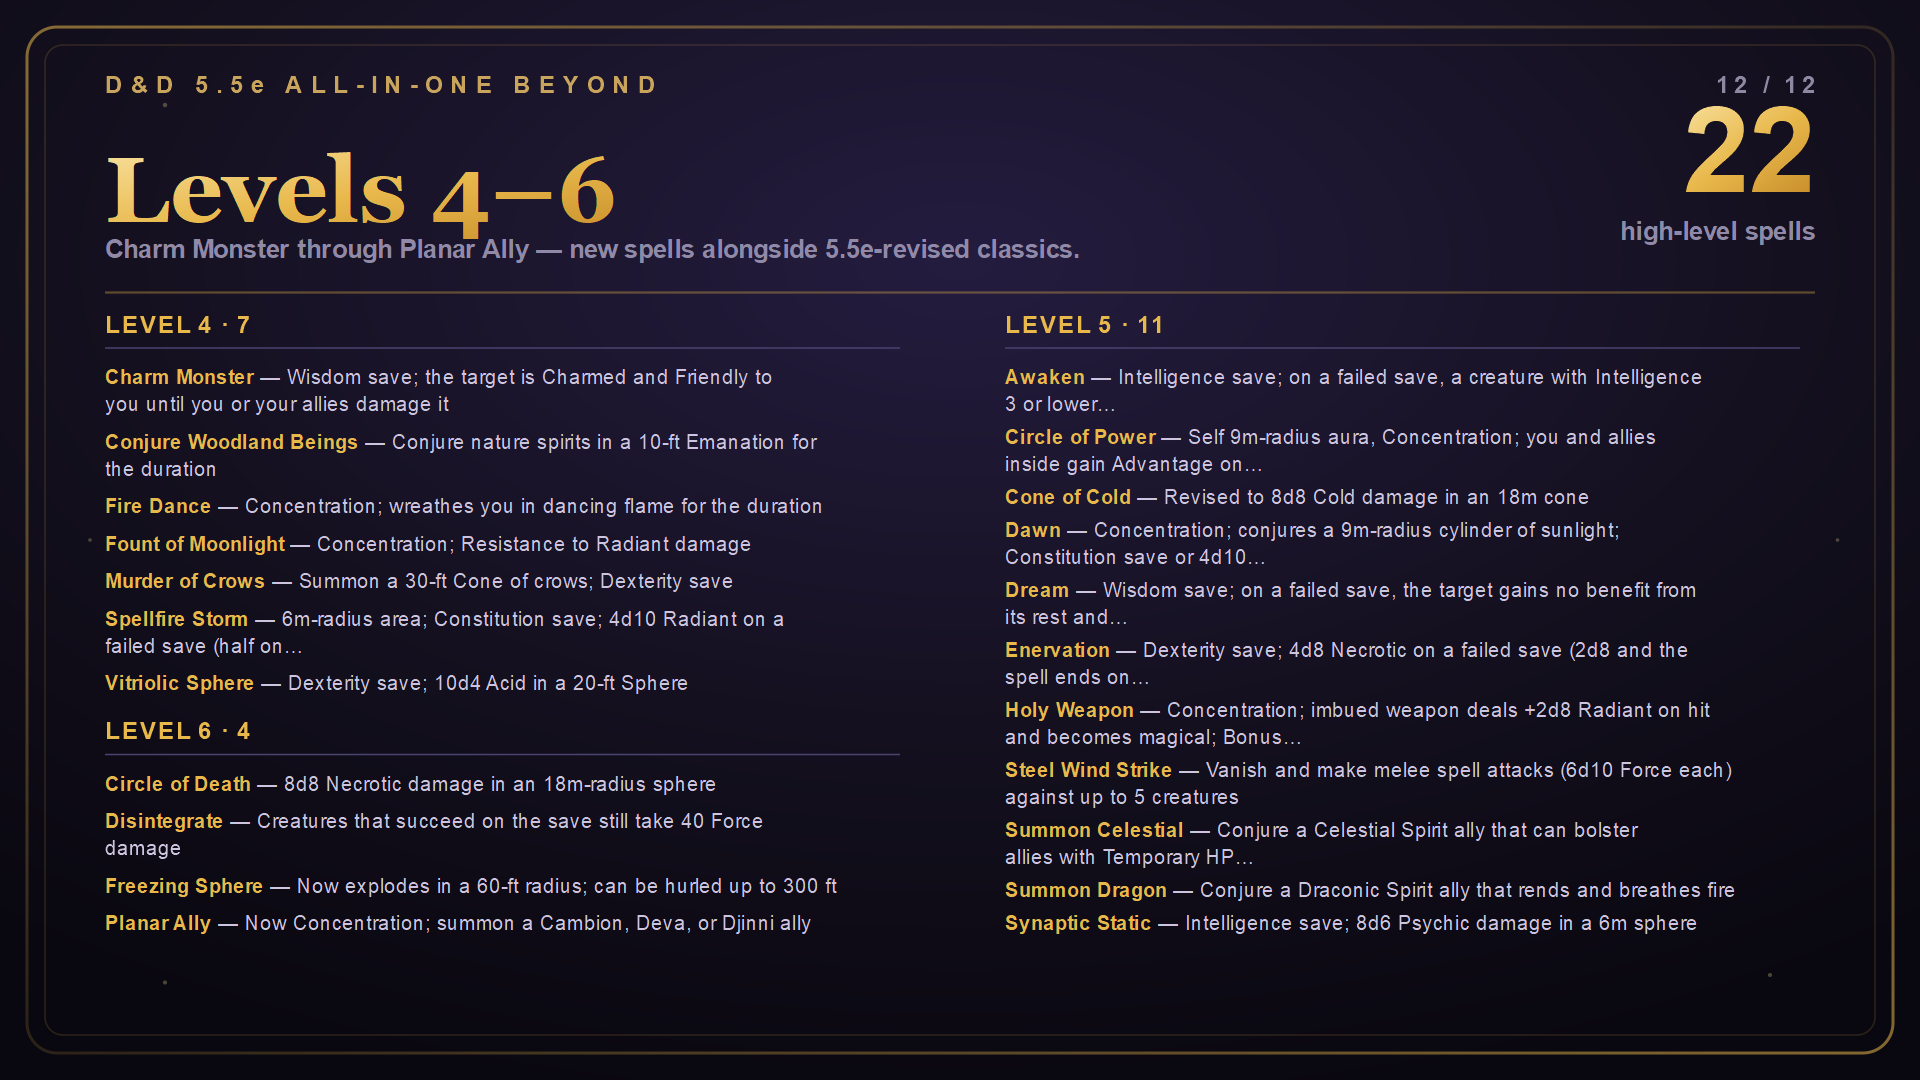
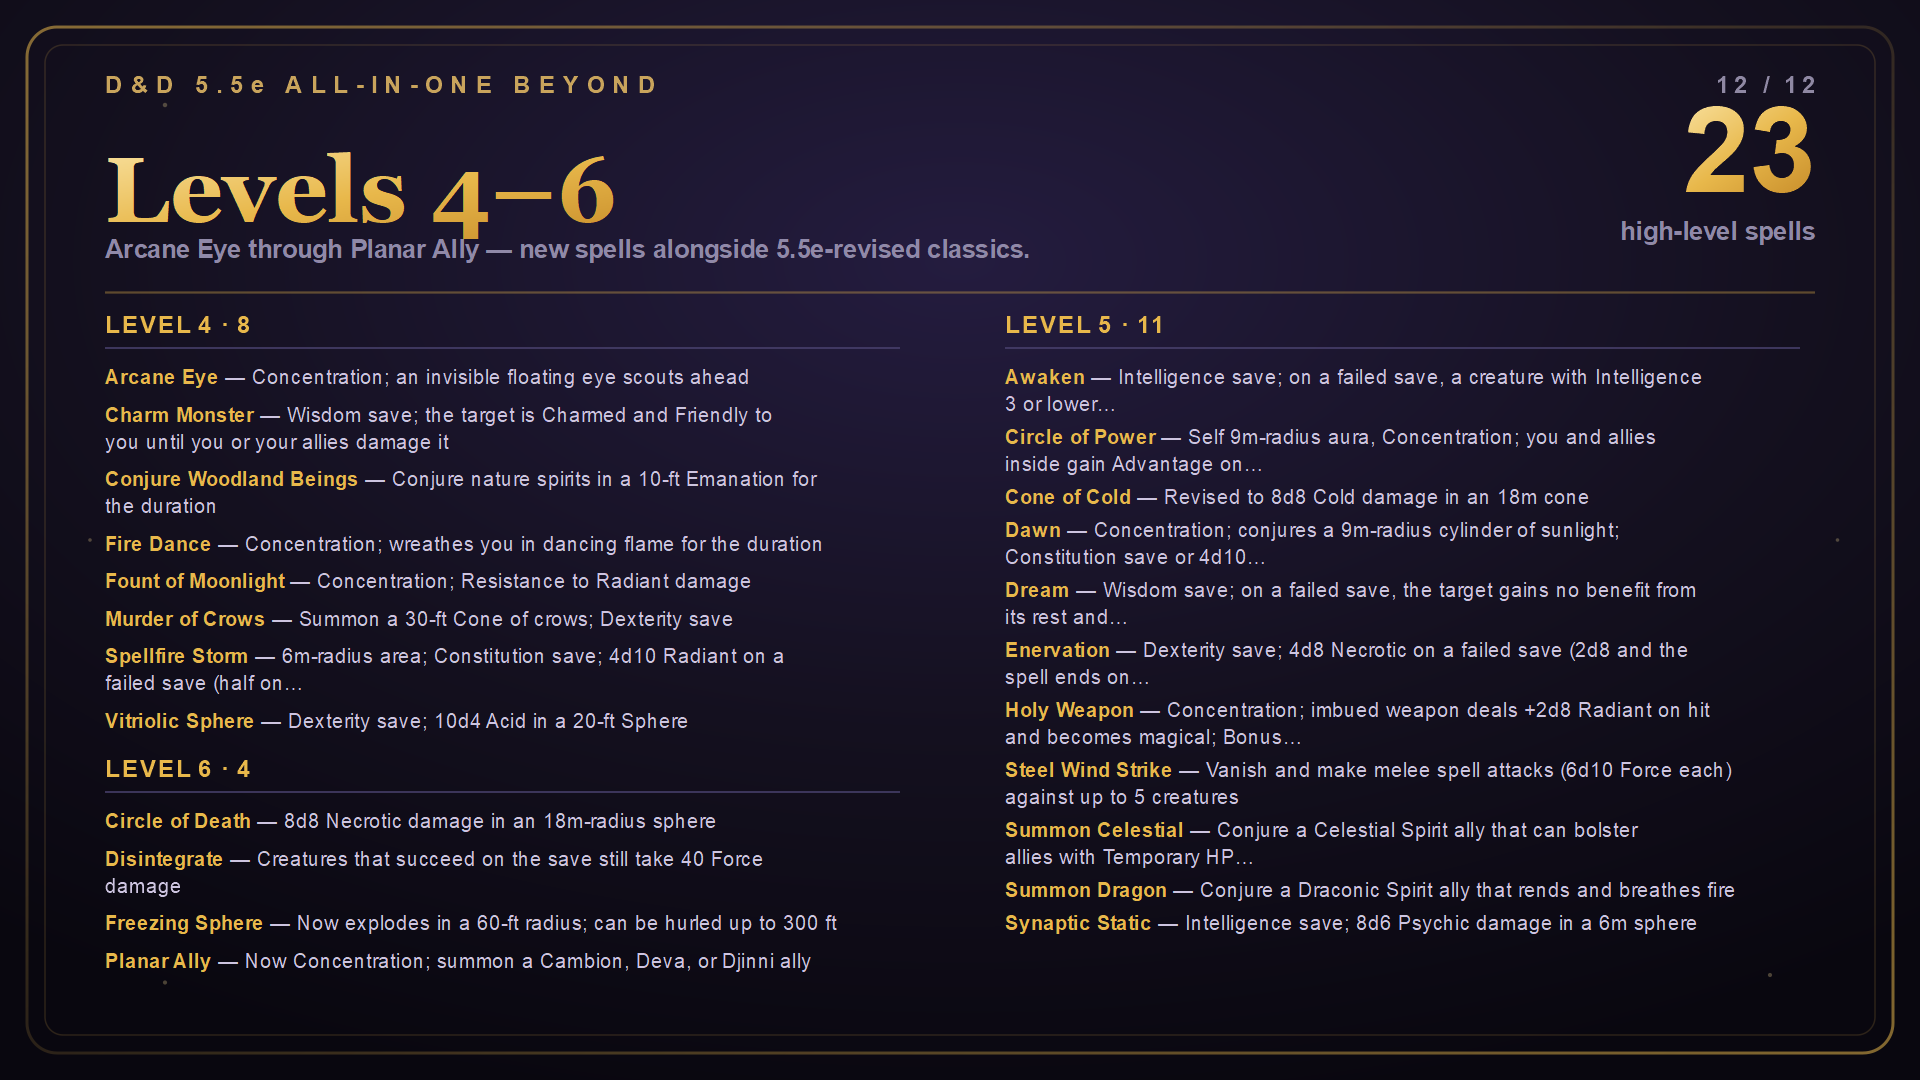
feat(arcane eye): make the spell obtainable and add its scroll
Arcane Eye was defined in the game data but sat on no player spell list.
It now appears on the Wizard 4th-level list and the Divination Savant
list, and is granted by the Light Domain at level 7, the Knowledge Domain
at level 7, and Draconic Sorcery at level 7.

The spell itself moves from Conjuration to Divination, drops the
once-per-short-rest cooldown, keeps the eye Invisible for as long as
Concentration holds instead of expiring after 100 turns, and accepts 5th-
and 6th-level slots with no added effect.

Light Domain trades Guardian of Faith for it at level 7 and no longer
grants Destructive Wave at level 9.

The Scroll of Arcane Eye is usable by Artificers and Wizards.

Changed region(s): [[0.0312, 0.3361, 0.4375, 0.9167], [0.0312, 0.2139, 0.5625, 0.2444], [0.9062, 0.1222, 0.9688, 0.1833]]

diff --git a/README_Modio.html b/README_Modio.html
@@ -92,7 +92,7 @@
   <li><strong>Level 1:</strong> Absorb Elements, Armor of Agathys, Ballistic Smite, Body Warping of Gorgoroth, Catapult, Chromatic Orb, Cloak of Shadow, Color Spray, Command, Cure Wounds, Dissonant Whispers, False Life, Healing Word, Hell's Lash, Hideous Laughter, Hungering Blade, Spectral Slash, Spellfire Flare, Thorn Armor, Thunderous Smite, Tide of Darkness, Umbral Tendril, Wardaway, Witch Bolt, Wrathful Smite.</li>
   <li><strong>Level 2:</strong> Aganazzar's Scorcher, Arcane Vigor, Barkskin, Darkbolt, Dazing Blast, Death Armor, Dragon's Breath, Elminster's Elusion, Find Steed, Fire Rune, Gust of Wind, Lesser Restoration, Mind Spike, Moonbeam, Prayer of Healing, Rime's Binding Ice, Searing Orb, Shadow Blade, Snilloc's Snowball Swarm, Summon Beast, Tasha's Mind Whip, Warding Bond, Web.</li>
   <li><strong>Level 3:</strong> Ashardalon's Stride, Astral Flood, Aura of Vitality, Bestow Curse, Cacophonic Shield, Conjure Barrage, Crusader's Mantle, Elemental Exhalation, Laeral's Silver Lance, Lightning Arrow, Murmurs of Doom, Phantom Steed, Summon Fey, Tidal Wave, Trollblood Infusion, Void Strike.</li>
-  <li><strong>Level 4:</strong> Charm Monster, Conjure Woodland Beings, Fire Dance, Fount of Moonlight, Murder of Crows, Spellfire Storm, Vitriolic Sphere.</li>
+  <li><strong>Level 4:</strong> Arcane Eye, Charm Monster, Conjure Woodland Beings, Fire Dance, Fount of Moonlight, Murder of Crows, Spellfire Storm, Vitriolic Sphere.</li>
   <li><strong>Level 5:</strong> Awaken, Circle of Power, Cone of Cold, Dawn, Dream, Enervation, Holy Weapon, Steel Wind Strike, Summon Celestial, Summon Dragon, Synaptic Static.</li>
   <li><strong>Level 6:</strong> Circle of Death, Disintegrate, Freezing Sphere, Planar Ally.</li>
 </ul>

diff --git a/README.md b/README.md
@@ -102,7 +102,7 @@ Acid Splash, Blade Ward, Blood Bolt, Booming Blade, Bursting Sinew, Finger Guns,
 - Level 1: Absorb Elements, Armor of Agathys, Ballistic Smite, Body Warping of Gorgoroth, Catapult, Chromatic Orb, Cloak of Shadow, Color Spray, Command, Cure Wounds, Dissonant Whispers, False Life, Healing Word, Hell's Lash, Hideous Laughter, Hungering Blade, Spectral Slash, Spellfire Flare, Thorn Armor, Thunderous Smite, Tide of Darkness, Umbral Tendril, Wardaway, Witch Bolt, Wrathful Smite.
 - Level 2: Aganazzar's Scorcher, Arcane Vigor, Barkskin, Darkbolt, Dazing Blast, Death Armor, Dragon's Breath, Elminster's Elusion, Find Steed, Fire Rune, Gust of Wind, Lesser Restoration, Mind Spike, Moonbeam, Prayer of Healing, Rime's Binding Ice, Searing Orb, Shadow Blade, Snilloc's Snowball Swarm, Summon Beast, Tasha's Mind Whip, Warding Bond, Web.
 - Level 3: Ashardalon's Stride, Astral Flood, Aura of Vitality, Bestow Curse, Cacophonic Shield, Conjure Barrage, Crusader's Mantle, Elemental Exhalation, Laeral's Silver Lance, Lightning Arrow, Murmurs of Doom, Phantom Steed, Summon Fey, Tidal Wave, Trollblood Infusion, Void Strike.
-- Level 4: Charm Monster, Conjure Woodland Beings, Fire Dance, Fount of Moonlight, Murder of Crows, Spellfire Storm, Vitriolic Sphere.
+- Level 4: Arcane Eye, Charm Monster, Conjure Woodland Beings, Fire Dance, Fount of Moonlight, Murder of Crows, Spellfire Storm, Vitriolic Sphere.
 - Level 5: Awaken, Circle of Power, Cone of Cold, Dawn, Dream, Enervation, Holy Weapon, Steel Wind Strike, Summon Celestial, Summon Dragon, Synaptic Static.
 - Level 6: Circle of Death, Disintegrate, Freezing Sphere, Planar Ally.
 
